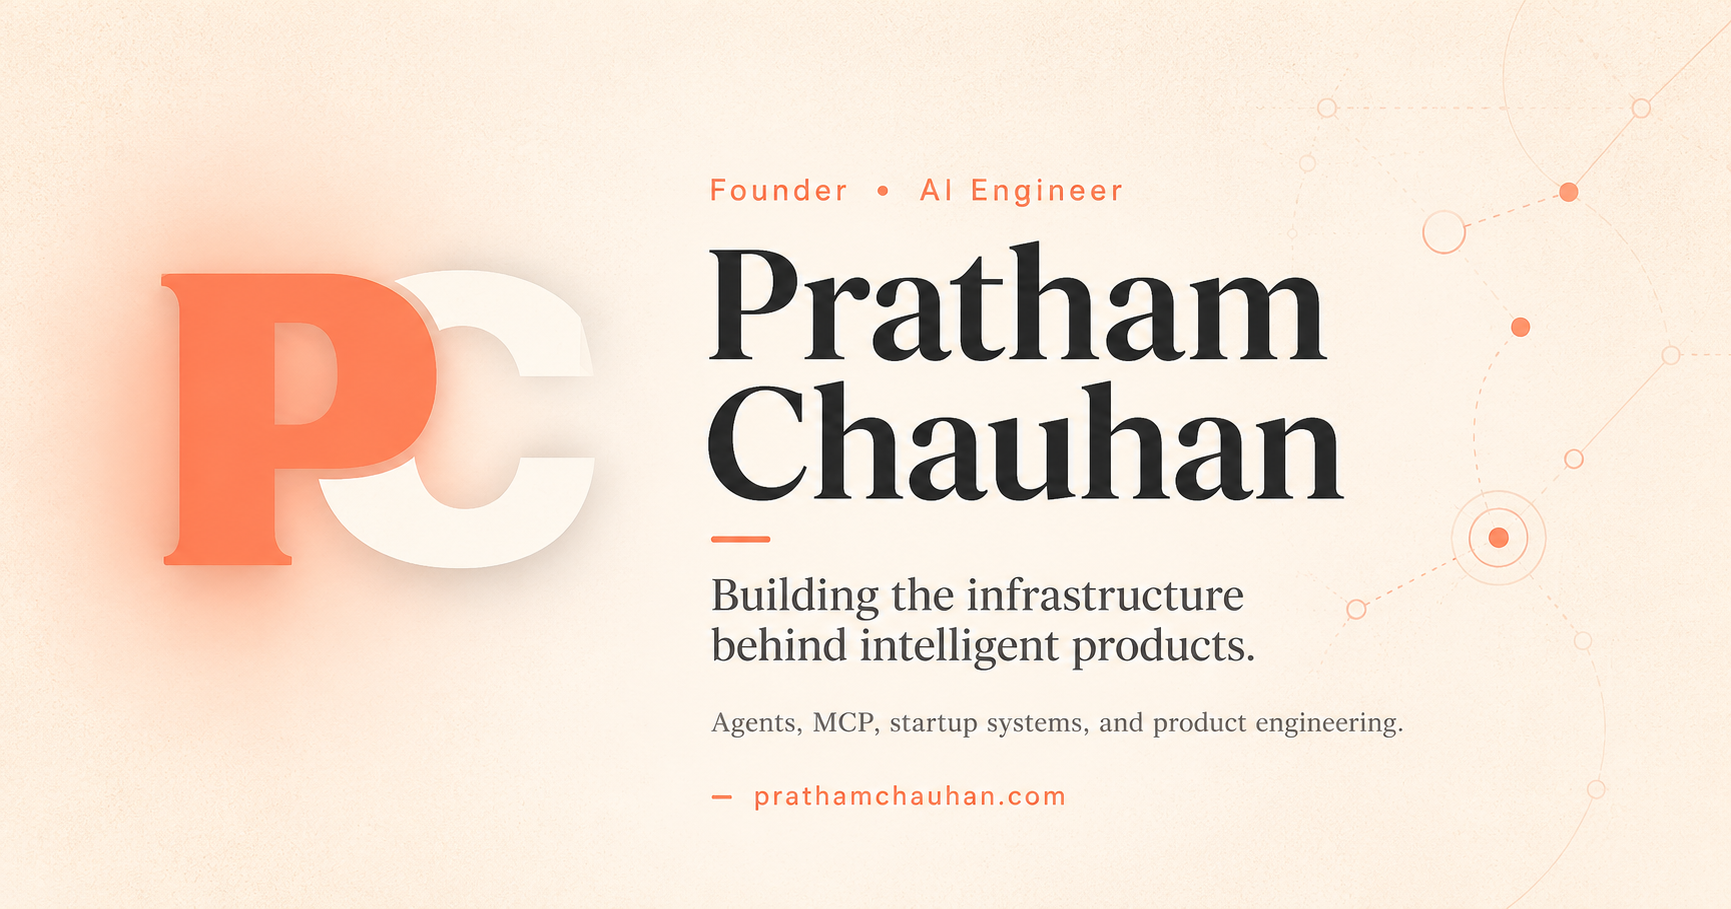
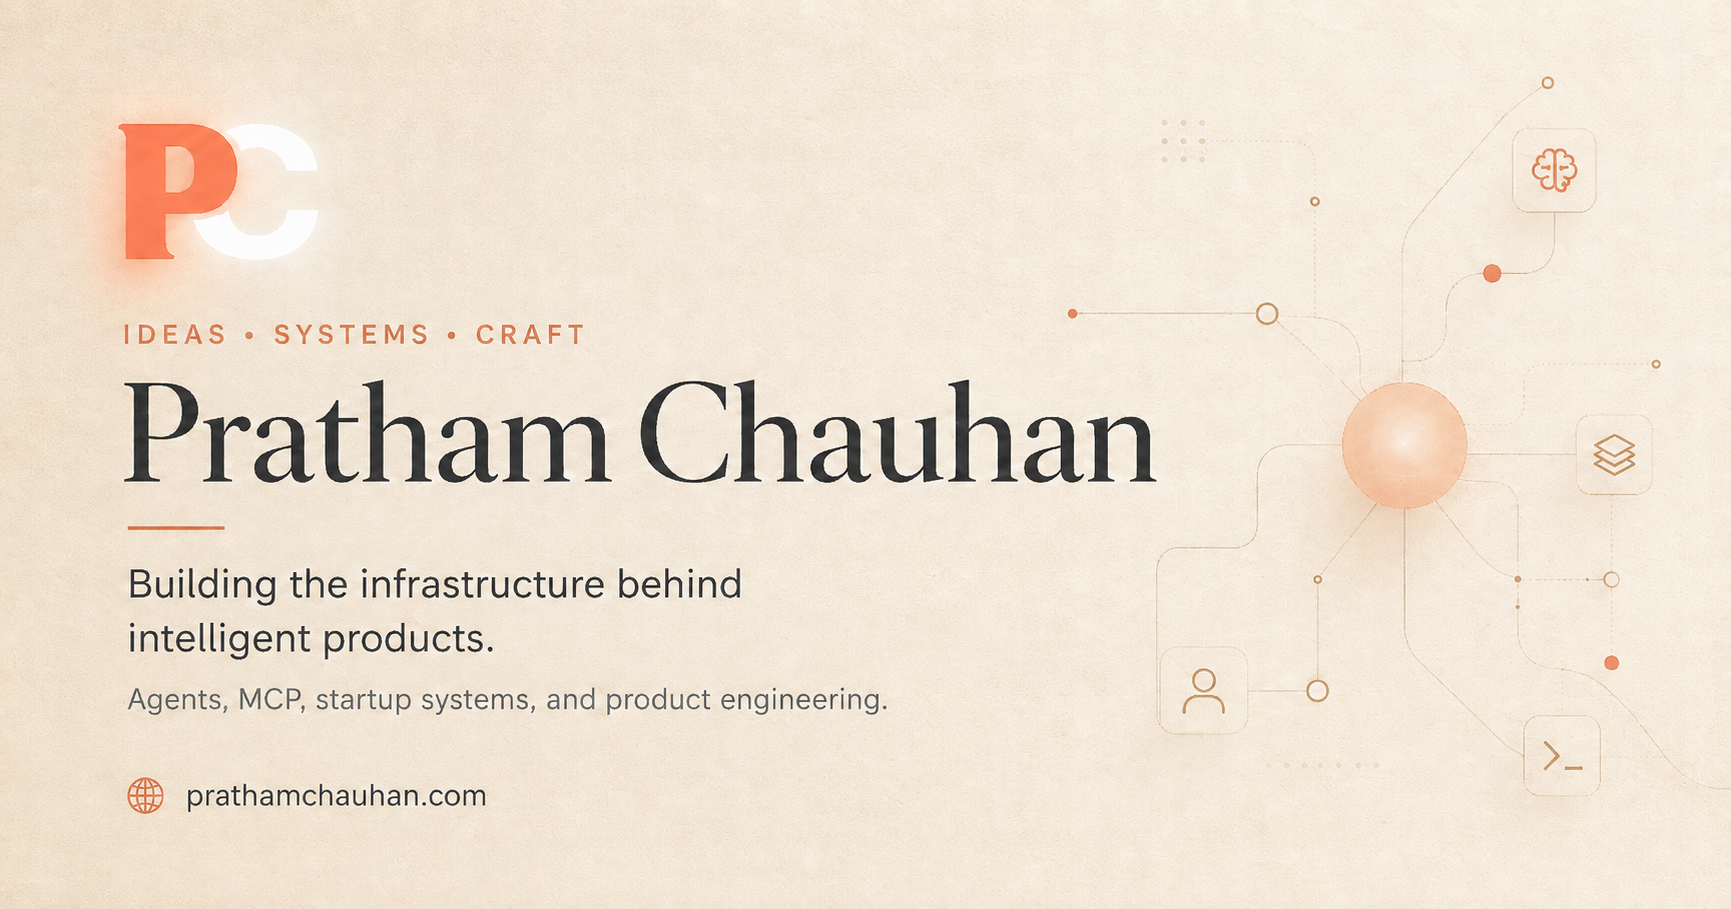
added the og image

diff --git a/src/app/layout.tsx b/src/app/layout.tsx
@@ -2,16 +2,24 @@ import type { Metadata } from "next";
 import "./globals.css";
 
 export const metadata: Metadata = {
-  metadataBase: new URL(
-    process.env.VERCEL_PROJECT_PRODUCTION_URL
-      ? `https://${process.env.VERCEL_PROJECT_PRODUCTION_URL}`
-      : "http://localhost:3000",
-  ),
+  metadataBase: new URL("https://www.prathamchauhan.com"),
   title: "Pratham Chauhan | Founder & AI Engineer",
   description: "Founder-minded AI engineer building agent infrastructure, developer tools, and useful product experiences.",
   icons: "/logo.png",
   openGraph: {
-    images: [{ url: "/og-image.png", width: 1200, height: 630 }],
+    type: "website",
+    url: "/",
+    siteName: "Pratham Chauhan",
+    images: [{
+      url: "/og-image.png",
+      width: 1200,
+      height: 630,
+      alt: "Pratham Chauhan — building the infrastructure behind intelligent products",
+    }],
+  },
+  twitter: {
+    card: "summary_large_image",
+    images: ["/og-image.png"],
   },
 };
 
